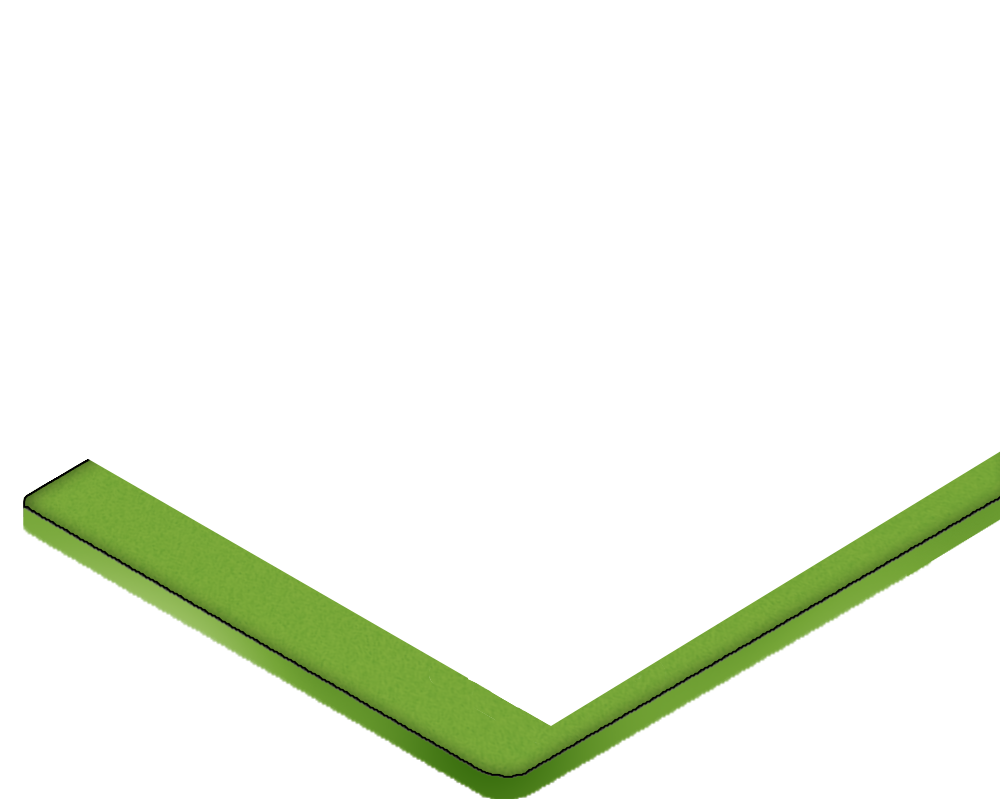
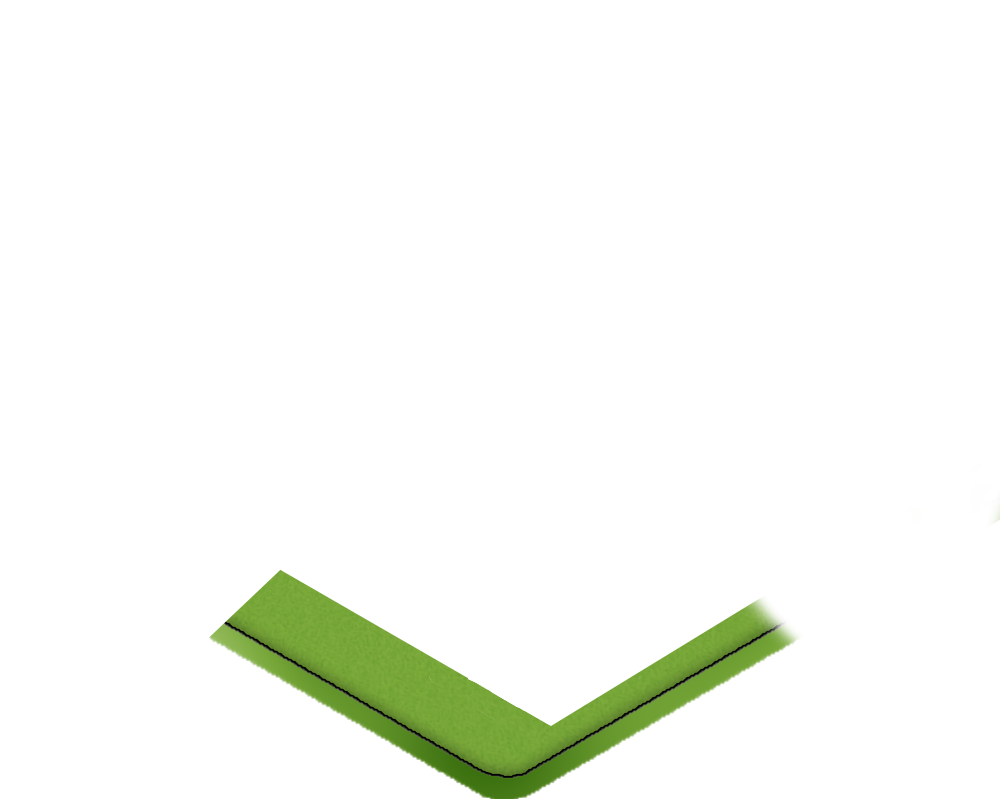
hero animation begun

Changed region(s): [[0.0, 0.5625, 0.279, 0.8125], [0.744, 0.5625, 1.0, 0.8125]]

diff --git a/client/src/pages/HomePage/components/HeroIsometricVisual.tsx b/client/src/pages/HomePage/components/HeroIsometricVisual.tsx
@@ -1,0 +1,61 @@
+import { useEffect, useState } from "react";
+
+type layersType = { img: string; type: "BG" | "FG" }[];
+
+const layers: layersType = [
+  { img: "bg-full", type: "BG" },
+  { img: "fg-0", type: "FG" },
+  { img: "bg-2", type: "BG" },
+  { img: "fg-1", type: "FG" },
+  { img: "bg-1", type: "BG" },
+  { img: "fg-2", type: "FG" },
+  { img: "bg-3", type: "BG" },
+  { img: "fg-3", type: "FG" },
+  { img: "bg-0", type: "BG" },
+];
+
+layers.forEach((i) => (i.img = `/images/hero-city/layers/${i.img}.png`));
+
+const config = {
+  bgDuration: 2000,
+  fgDuration: 3000,
+  bgDelay: 50,
+  fgDelayStep: 200,
+};
+
+export default function HeroIsometricVisual() {
+  const [flag, setFlag] = useState(false);
+
+  useEffect(() => {
+    setInterval(() => {
+      setFlag(true);
+    }, 50);
+  });
+
+  return (
+    <div className="w-full h-full relative overflow-hidden">
+      {layers.map((item, index) => (
+        <img
+          src={item.img}
+          className="absolute top-0 left-0"
+          style={{
+            zIndex: index,
+            transitionDuration: `${
+              item.type === "BG" ? config.bgDuration : config.fgDuration
+            }ms`,
+            transitionDelay: `${
+              item.type === "FG"
+                ? config.bgDuration + 100 + (index + 1) * config.fgDelayStep
+                : config.bgDelay
+            }ms`,
+            transform: flag
+              ? "translateX(0%) translateY(0%)"
+              : `${
+                  item.type === "BG" ? "translateX(100%)" : "translateY(100%)"
+                }`,
+          }}
+        />
+      ))}
+    </div>
+  );
+}

diff --git a/client/src/pages/HomePage/components/Hero.tsx b/client/src/pages/HomePage/components/Hero.tsx
@@ -1,8 +1,12 @@
+import HeroIsometricVisual from "./HeroIsometricVisual";
+
 export default function Hero() {
   return (
-    <section className="h-screen p-page py-12 flex flex-col items-center">
-      <div className="basis-1/2"></div>
-      <div className="basis-1/2"></div>
+    <section className="h-screen pl-page py-12 flex items-center">
+      <div className="flex-1">w</div>
+      <div className="basis-[60%] h-full flex flex-col justify-center">
+        <HeroIsometricVisual />
+      </div>
     </section>
   );
 }

diff --git a/client/src/assets/styles/tailwind.css b/client/src/assets/styles/tailwind.css
@@ -12,4 +12,7 @@
   .p-page {
     @apply px-[3vw];
   }
+  .pl-page {
+    @apply pl-[3vw];
+  }
 }
